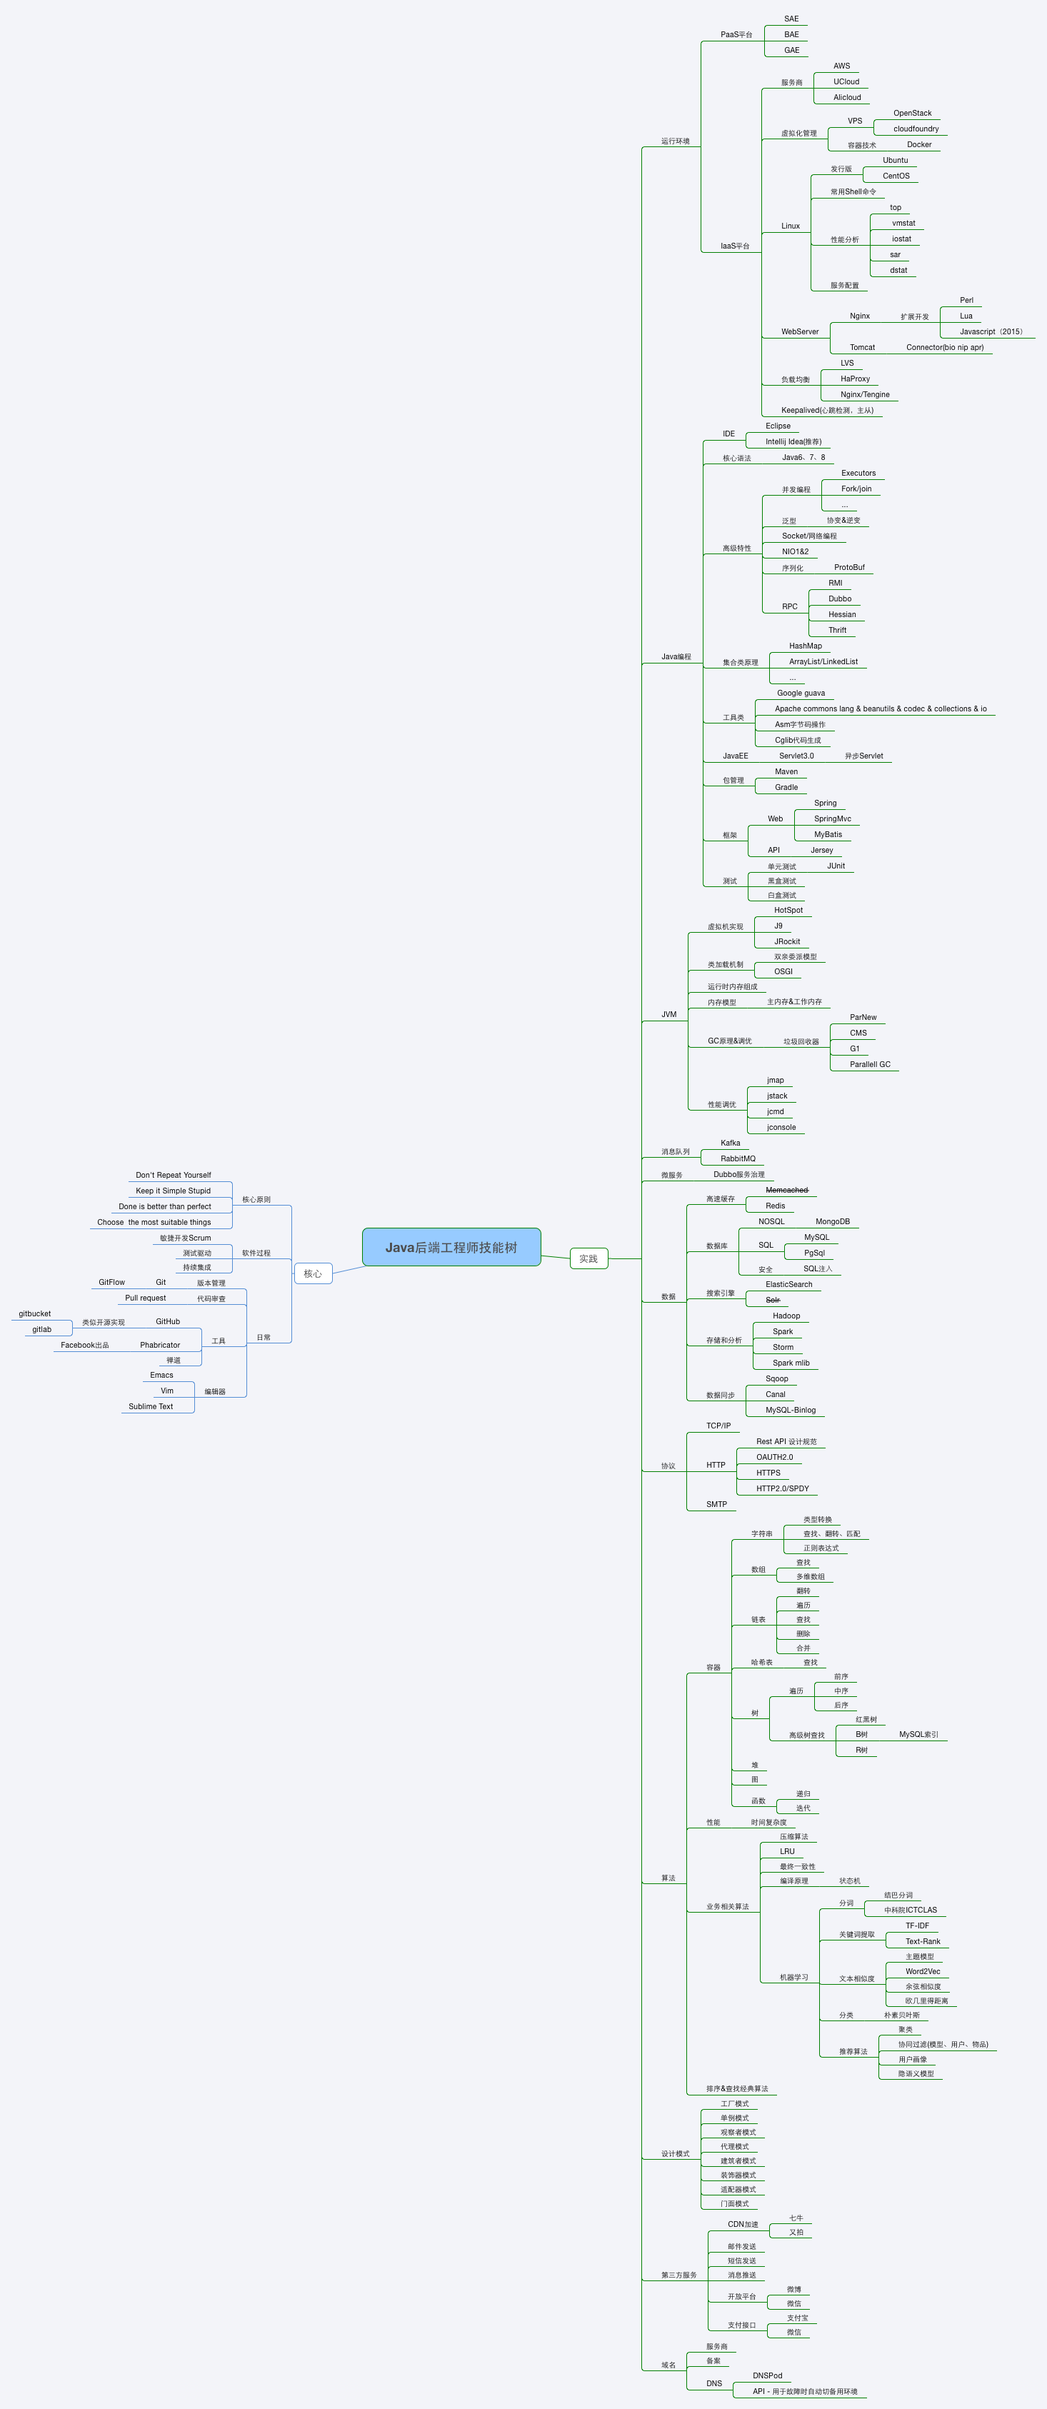
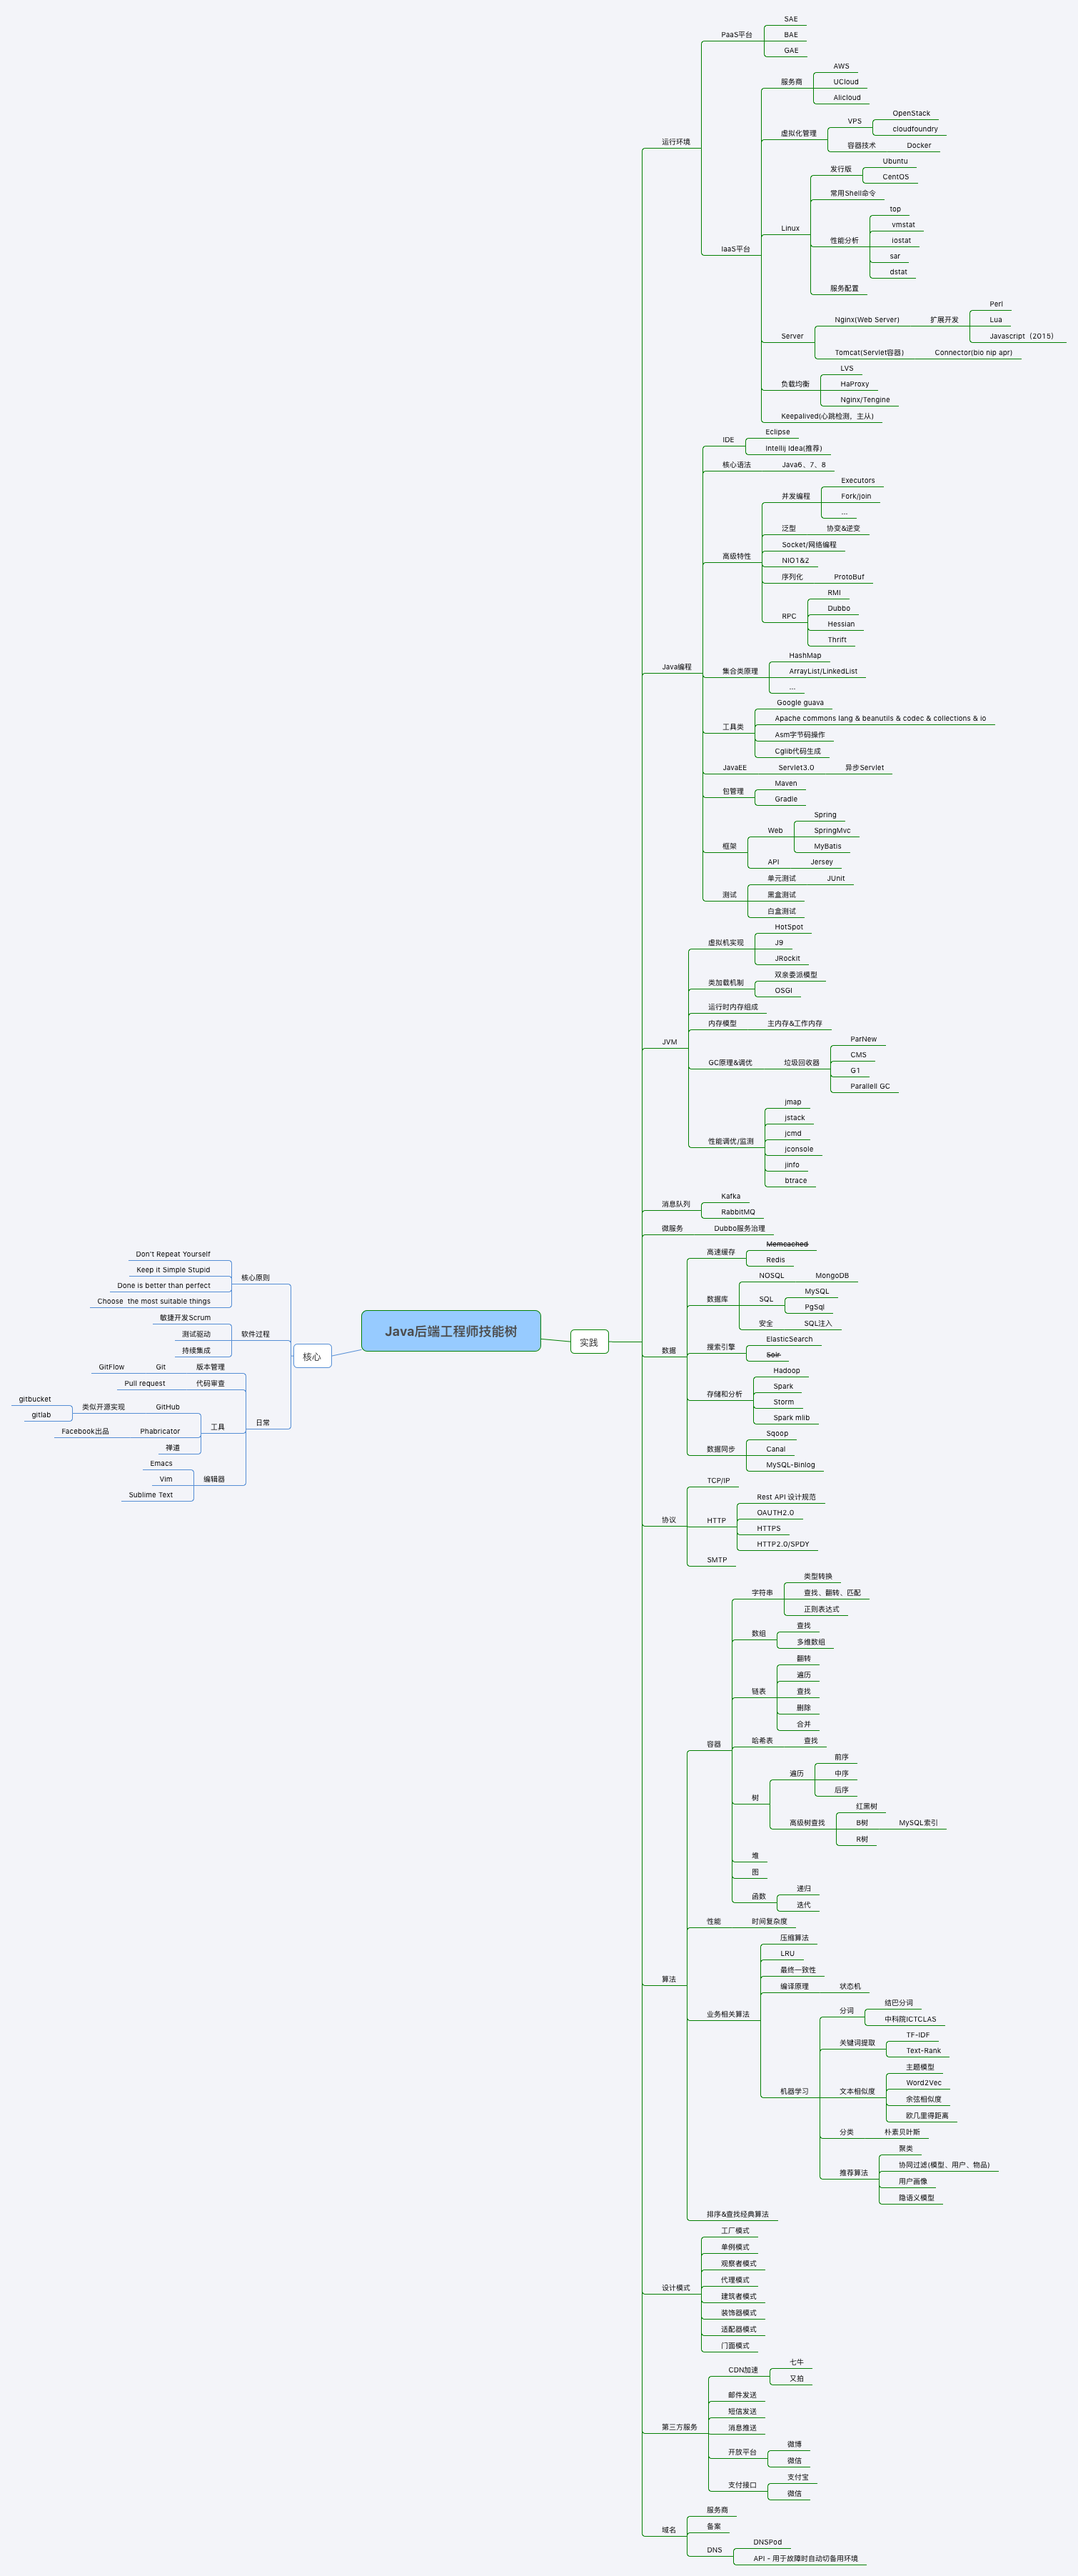
update skill tree

diff --git a/overview.md b/overview.md
@@ -1,0 +1,84 @@
+# 《Java后端工程师修炼之道》大纲
+
+本书会先讲述后端的一些基础技术体系，然后针对Java工程师的每一个工作中用的关键技能点再做相对详细的阐述，会尽量覆盖Java后端工程师在实际工作中需要的所有技能点。不同于其他Java语言编程书籍的地方在于，本书着重针对的是实际开发，而非大而全的阐述。对于Java相关技术点的学习，仍需要参考Java语言教程之类的书籍。
+
+1. 后端基础技术
+
+	本章主要讲述Java工程师除了Java语言技术之外应该具有的一些通用后端技术，如缓存、数据库、消息队列、认证技术、搜索引擎等
+
+	- DevOps
+	- 消息队列
+	- 认证技术-oAuth
+	- 缓存
+	- 关系型数据库
+	- 非关系型数据库
+	- 微服务
+	- 分布式&大数据
+
+2. Java项目与工程化
+
+	本章主要讲述Java项目化需要掌握的软件、技能等。包括
+
+	- 代码组织：maven、gradle
+	- 版本管理：svn、git
+	- 测试：junit
+	- 持续集成：jenkins、quickbuild
+
+3. Java开发基础框架
+ 
+	本章主要讲述Java后端开发中一些用到的主流框架的使用，如
+
+	- Spring
+	- Spring MVC
+	- MyBatis
+	- 性能检测框架
+	- 分布式调度框架
+
+4. Java开发利器
+
+	本章主要介绍在Java开发用一些非常流行的类库，如guava;apache commons;fast util等。
+
+5. Java高级语言特性
+
+	本章主要介绍一些Java开发中的高级特性，如：
+
+	- 类加载器
+	- 注解
+	- 泛型
+	- RTT&&反射
+	- JNI
+
+6. Java网络编程
+
+	本章主要讲述Java网络编程的一些知识，包括
+
+	- Socket
+	- IO编程模型
+	- 序列化
+	- RPC机制
+
+7. Java内存管理
+
+	本章主要讲述Java内存的一些知识，包括
+
+	- 运行时内存组成
+	- GC机制
+	- GC colleor
+	- 开发注意事项
+
+8. Java并发编程
+
+	本章讲述Java编程时候需要注意的并发问题
+
+	- Java内存模型
+	- 线程安全集合类
+	- 常用同步机制
+	- Happens before
+
+9. Java性能分析
+
+	本章主要讲述如何对Java应用做性能分析和优化
+
+10. Java7、8新特性
+
+	本章主要讲述Java7、8带来的一些新的特性。
